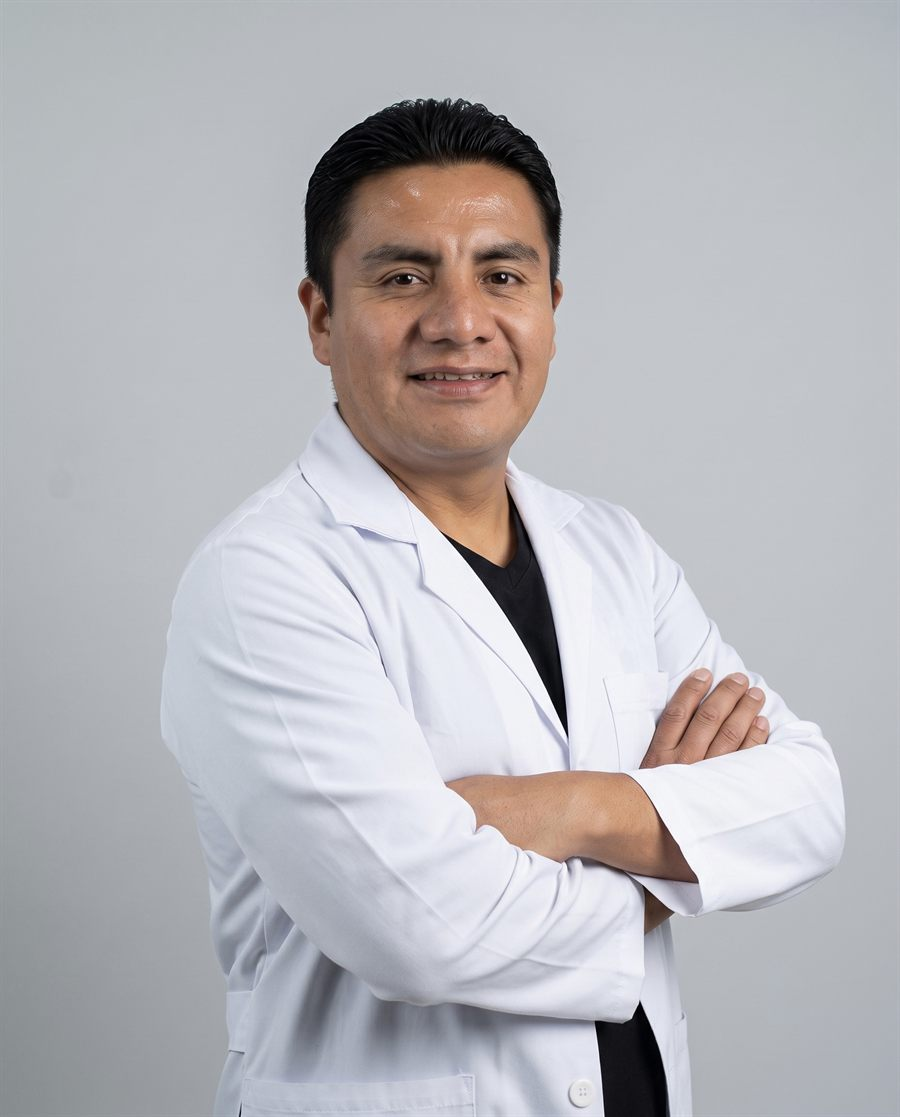
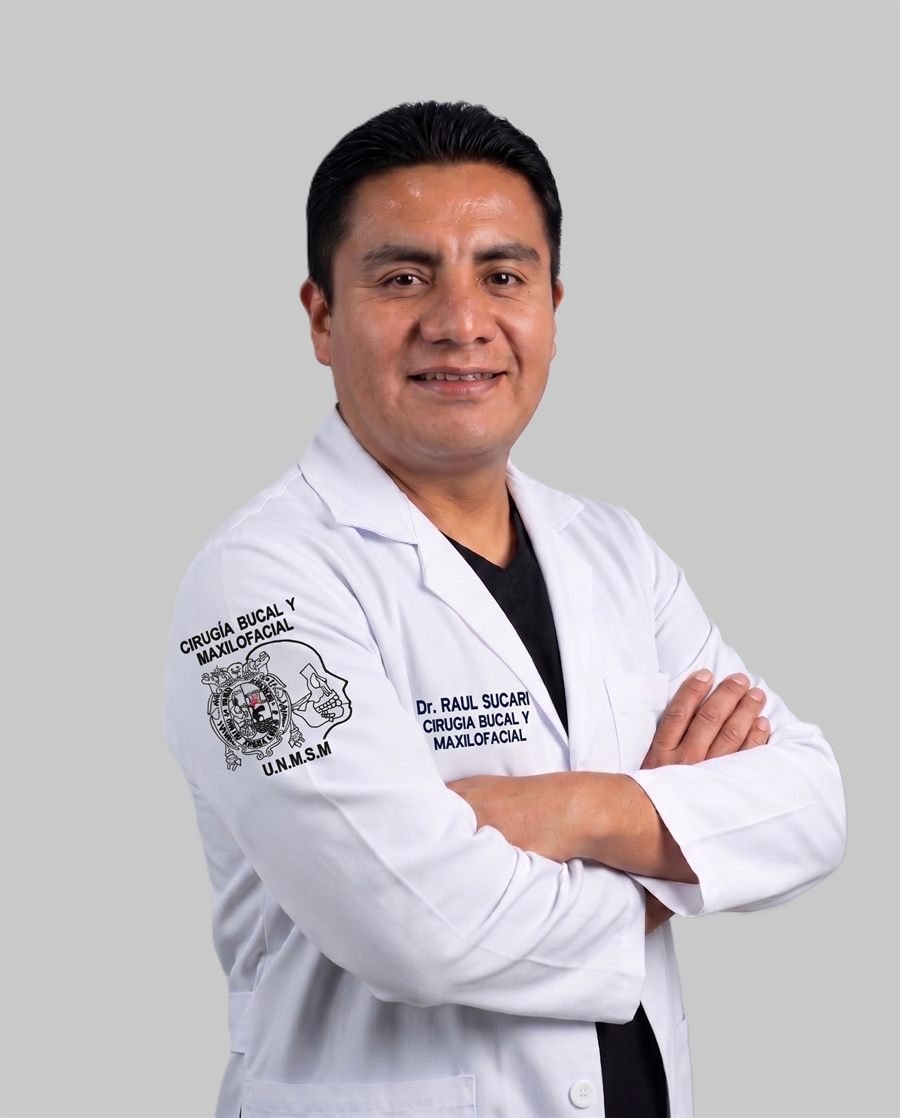
Foto nueva del doctor e intro de entrada
- Reemplaza la foto por la nueva (mandil de Cirugia Bucal y
  Maxilofacial, UNMSM), optimizada de 2,5 MB a 71 KB. El sitio
  apuntaba a un archivo que ya no existia.
- Anade la intro a pantalla completa: la animacion se sube a
  assets/intro/ y se muestra en cada visita y cada recarga.
  Si no hay archivo, la pagina abre directo.

diff --git a/js/main.js b/js/main.js
@@ -5,6 +5,109 @@
 
   var reducedMotion = window.matchMedia("(prefers-reduced-motion: reduce)").matches;
 
+  /* ---------- Intro de entrada ----------
+     Muestra la animación de assets/intro/ a pantalla completa y la cierra
+     al terminar. Se repite en cada visita y en cada recarga: no se guarda
+     nada en el navegador a propósito.
+
+     Si no hay archivo subido, se cierra al instante y la página abre
+     normal — por eso todo el bloque está lleno de salidas de emergencia. */
+
+  (function () {
+    var intro = document.getElementById("intro");
+    if (!intro) return;
+
+    var video = document.getElementById("introVideo");
+    var gif = document.getElementById("introGif");
+    var botonSaltar = document.getElementById("introSaltar");
+    var relojes = [];
+    var cerrada = false;
+    var arranco = false;
+    var gifFallo = false;
+
+    function esperar(ms, fn) { relojes.push(setTimeout(fn, ms)); }
+
+    function cerrar() {
+      if (cerrada) return;
+      cerrada = true;
+      relojes.forEach(clearTimeout);
+      intro.classList.add("intro--cerrada");
+      document.body.classList.remove("intro-abierta");
+      if (video) { try { video.pause(); } catch (e) {} }
+    }
+
+    /* Quien pidió menos movimiento entra directo a la página */
+    if (reducedMotion) { cerrar(); return; }
+
+    document.body.classList.add("intro-abierta");
+    botonSaltar.addEventListener("click", cerrar);
+    esperar(2000, function () { intro.classList.add("intro--saltable"); });
+    esperar(15000, cerrar);          /* tope duro: nunca se queda atascada */
+
+    function empezar(elemento) {
+      if (cerrada || arranco) return;
+      arranco = true;
+      elemento.classList.add("intro__media--activa");
+      intro.classList.add("intro--reproduciendo");
+    }
+
+    /* ---- video ---- */
+
+    video.addEventListener("playing", function () { empezar(video); });
+    video.addEventListener("ended", cerrar);
+
+    /* Ojo: no se escucha el error de cada <source>. Si hay webm y mp4, el
+       webm puede fallar y el mp4 funcionar igual; el único dato fiable de
+       "no hay video" es networkState, que se mira en el sondeo de abajo. */
+
+    try {
+      var reproduccion = video.play();
+      if (reproduccion && reproduccion.catch) { reproduccion.catch(function () {}); }
+    } catch (e) {}
+
+    /* ---- gif, si no hubo video ---- */
+
+    function mostrarGif() {
+      if (cerrada || arranco) return;
+      empezar(gif);
+      esperar(parseInt(gif.getAttribute("data-duracion"), 10) || 4000, cerrar);
+    }
+
+    gif.addEventListener("error", function () { gifFallo = true; });
+
+    /* ---- sondeo ----
+       El evento de error del <video> no llega en todos los navegadores
+       (el de cada <source> no siempre se propaga), así que en vez de
+       confiar en él se revisa el estado real cada poco: si el video se
+       quedó sin fuentes y el gif tampoco cargó, no hay animación que
+       mostrar y se entra directo a la página. */
+
+    var sondeos = 0;
+
+    var sondeo = setInterval(function () {
+      sondeos++;
+
+      if (cerrada || arranco) { clearInterval(sondeo); return; }
+
+      var sinVideo = !!video.error || video.networkState === video.NETWORK_NO_SOURCE;
+      var sinGif = gifFallo || (gif.complete && gif.naturalWidth === 0);
+
+      /* El video manda: el gif solo entra si no hay video que reproducir */
+      if (sinVideo && !sinGif && gif.complete && gif.naturalWidth > 0) {
+        clearInterval(sondeo);
+        mostrarGif();
+        return;
+      }
+
+      if (sinVideo && sinGif) { clearInterval(sondeo); cerrar(); return; }
+
+      /* 10 sondeos = 2,5 s: red muy lenta o autoplay bloqueado */
+      if (sondeos >= 10) { clearInterval(sondeo); cerrar(); }
+    }, 250);
+
+    relojes.push(sondeo);
+  })();
+
   /* ---------- Header: fondo al hacer scroll ---------- */
 
   var header = document.getElementById("header");

diff --git a/css/styles.css b/css/styles.css
@@ -96,6 +96,81 @@ ul { list-style: none; }
 
 ::selection { background: var(--gold); color: var(--navy); }
 
+/* ---------- Intro de entrada ---------- */
+
+.intro {
+  position: fixed;
+  inset: 0;
+  z-index: 200;
+  display: grid;
+  place-items: center;
+  background: var(--navy-deep);
+  transition: opacity 0.75s ease, visibility 0.75s ease;
+}
+
+/* Se cierra sola al terminar la animación (o si no hay archivo) */
+.intro--cerrada {
+  opacity: 0;
+  visibility: hidden;
+  pointer-events: none;
+}
+
+body.intro-abierta { overflow: hidden; }
+
+/* El logo acompaña mientras el video carga; desaparece al arrancar */
+.intro__marca {
+  grid-area: 1 / 1;
+  width: min(42vw, 190px);
+  height: auto;
+  transition: opacity 0.5s ease;
+  animation: introLatido 2.4s ease-in-out infinite;
+}
+
+/* animation: none es obligatorio: una animación en curso gana sobre
+   la declaración de opacity y el logo no llegaría a ocultarse */
+.intro--reproduciendo .intro__marca { animation: none; opacity: 0; }
+
+@keyframes introLatido {
+  0%, 100% { transform: scale(0.97); opacity: 0.75; }
+  50%      { transform: scale(1); opacity: 1; }
+}
+
+/* La animación se ve entera, sin recortes */
+.intro__media {
+  grid-area: 1 / 1;
+  display: none;
+  width: 100vw;
+  height: 100vh;
+  object-fit: contain;
+}
+
+.intro__media--activa { display: block; }
+
+.intro__saltar {
+  position: absolute;
+  right: 1.4rem;
+  bottom: 1.4rem;
+  padding: 0.6rem 1.3rem;
+  background: rgba(255, 255, 255, 0.08);
+  border: 1px solid var(--line);
+  border-radius: 999px;
+  color: var(--paper);
+  font-family: var(--font-head);
+  font-size: 0.85rem;
+  font-weight: 500;
+  cursor: pointer;
+  opacity: 0;
+  pointer-events: none;
+  transition: opacity 0.4s ease, background 0.25s ease, border-color 0.25s ease;
+}
+
+.intro--saltable .intro__saltar { opacity: 1; pointer-events: auto; }
+
+.intro__saltar:hover {
+  background: rgba(249, 197, 54, 0.14);
+  border-color: var(--gold);
+}
+
 .skip {
   position: absolute;
   left: 1rem;

diff --git a/index.html b/index.html
@@ -21,6 +21,26 @@
 </head>
 <body>
 
+  <!-- ==================== INTRO DE ENTRADA ====================
+       La animación se sube a assets/intro/ (ver LEEME.txt de esa
+       carpeta). Si no hay archivo, main.js cierra la intro al
+       instante y la página abre normal. -->
+  <div class="intro" id="intro" role="presentation">
+    <img class="intro__marca" src="assets/logo.png" alt="" width="200" height="200">
+
+    <video class="intro__media" id="introVideo" muted playsinline autoplay preload="auto">
+      <source src="assets/intro/intro.webm" type="video/webm">
+      <source src="assets/intro/intro.mp4" type="video/mp4">
+    </video>
+
+    <img class="intro__media" id="introGif" src="assets/intro/intro.gif" alt="" data-duracion="4000">
+
+    <button class="intro__saltar" id="introSaltar" type="button">Saltar intro</button>
+  </div>
+
+  <!-- Sin JavaScript la intro no podría cerrarse: se oculta de entrada -->
+  <noscript><style>.intro { display: none !important; }</style></noscript>
+
   <a href="#contenido" class="skip">Ir al contenido</a>
 
   <!-- ==================== HEADER ==================== -->
@@ -110,7 +130,7 @@
     <div class="container doctor__inner">
 
       <figure class="doctor__media reveal">
-        <img src="assets/doctor.jpg" alt="El Dr. Raúl Sucari Cruz con mandil blanco" width="900" height="1117" loading="lazy">
+        <img src="assets/doctor.jpg" alt="El Dr. Raúl Sucari Cruz con su mandil de Cirugía Bucal y Maxilofacial" width="900" height="1118" loading="lazy">
         <figcaption>Dr. Raúl Sucari Cruz — Cirujano Dentista</figcaption>
       </figure>
 

diff --git a/CLAUDE.md b/CLAUDE.md
@@ -98,6 +98,35 @@ transformación no pueden compartir la propiedad `transform`.
   `width`/`height` reales (por el CLS), y ese `height` gana sobre `aspect-ratio`. Sin
   `height: auto` la foto se estira a su alto natural — ya pasó con la del doctor.
 
+## Intro de entrada
+
+Antes de la página se muestra `.intro`, una capa a pantalla completa con la animación
+que el cliente sube a `assets/intro/` (ver [assets/intro/LEEME.txt](assets/intro/LEEME.txt)):
+`intro.webm` / `intro.mp4`, o `intro.gif` como alternativa. Aparece en cada visita y en
+cada recarga — **no se guarda nada en `sessionStorage` a propósito**, es lo que pidió
+el cliente.
+
+Lo delicado no es mostrarla sino garantizar que se cierre siempre, porque mientras está
+abierta tapa el sitio entero (`body.intro-abierta` bloquea el scroll). De ahí las
+salidas: botón "Saltar" a los 2 s, tope duro a los 15 s, `<noscript>` que la oculta si
+no hay JS, y salida inmediata con `prefers-reduced-motion`.
+
+Dos trampas ya resueltas, no reintroducirlas:
+
+- **No sirve escuchar el evento `error` del `<video>`** para saber que no hay animación:
+  el error de cada `<source>` no siempre se propaga, y si hay webm y mp4 el fallo del
+  webm no significa que no haya video. El único dato fiable es `networkState ===
+  NETWORK_NO_SOURCE`, que se consulta en un sondeo cada 250 ms.
+- `.intro--reproduciendo .intro__marca` necesita `animation: none` además de
+  `opacity: 0`: la animación `introLatido` en curso gana sobre la declaración y el logo
+  no llegaría a ocultarse.
+
+En capturas headless de ventana muy alta la intro parece quedarse abierta (se ve toda
+la página con un velo oscuro). Es un artefacto: con la ventana alta se cargan todas las
+imágenes y el iframe del mapa, el tiempo virtual se detiene mientras hay red pendiente y
+los temporizadores no llegan a dispararse. Con `--virtual-time-budget=25000` o una
+ventana normal se ve bien.
+
 ## Logos de redes sociales
 
 El pie muestra Facebook, Instagram, TikTok, X y WhatsApp. Cada enlace trae **dos**
